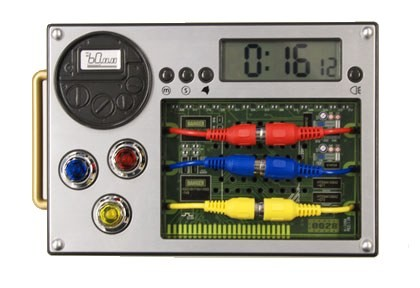
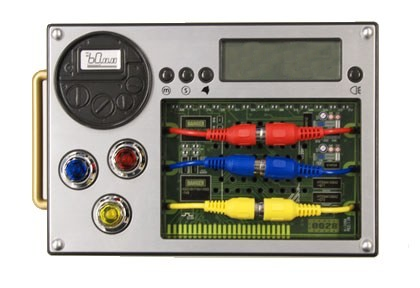
2.10

Changed region(s): [[0.681, 0.1562, 0.8048, 0.2812], [0.5571, 0.125, 0.65, 0.2812]]

diff --git a/goit/files/js_pages/thebomb.html b/goit/files/js_pages/thebomb.html
@@ -1,48 +1,70 @@
 <!DOCTYPE html>
 <html lang="en">
+
 <head>
-	<meta charset="UTF-8">
-	<title>JavaScript</title>
-	<link href="../style/js.css" rel="stylesheet">
-	
+    <meta charset="UTF-8">
+    <title>JavaScript</title>
+    <link href="../style/js.css" rel="stylesheet">
+    <script src="../js/bomb.js"></script>
 </head>
+
 <body>
-<header><nav>
-	<a href="/">Старт</a>
-	<a href="https://color.adobe.com/ru/Escape-Technology-Colours-color-theme-6679213/" target="_blank">Цвет</a>
-	<a href="">menu 3</a>
-	<a href="">menu 4</a>
-	<a href="js_page_2_2.html">МорБой</a>
-	<span>JavaScript</span>
-</nav></header>
-	<div class="main_cont">
-	<!-- Начало бокового меню -->
-		<div class="sidebar">
-			<ul>
-			    <li><a href="../js.html">Начало</a></li>
-				<li><a href="js_page_1_1.html">Глава 1</a></li>
-				<li><a href="js_page_2_1.html">Глава 2</a></li>
-				<li><a href="js_page_3_1.html">Глава 3</a></li>
-				<li><a href="js_page_4_1.html">Глава 4</a></li>
-				<li><a href="js_page_5_1.html">Глава 5</a></li>
-				<li><a href="js_page_6_1.html">Глава 6</a></li>
-				<li><a href="js_page_7_1.html">Глава 7</a></li>
-				<li><a href="js_page_8_1.html">Глава 8</a></li>
-				<li><a href="js_page_9_1.html">Глава 9</a></li>
-				<li><a href="js_page_10_1.html">Глава 10</a></li>
-				<li><a href="js_page_11_1.html">Глава 11</a></li>
-				<li><a href="js_page_12_1.html">Глава 12</a></li>
-				<li><a href="js_page_13_1.html">Глава 13</a></li>
-				<li><a href="js_other.html">Разное</a></li>
-			</ul>
-		</div>
-		<!-- Конец бокового меню -->
-		<!-- Начало блока с контентом -->
-		<div class="content">
-		    <h2>Разминируй бомбу.</h2>
-			<h1 class="red"></h1>
-		</div>
-		<!-- Конец блока с контентом -->
-	</div>
+    <header>
+        <nav>
+            <a href="/">Старт</a>
+            <a href="https://color.adobe.com/ru/Escape-Technology-Colours-color-theme-6679213/" target="_blank">Цвет</a>
+            <a href="">menu 3</a>
+            <a href="">menu 4</a>
+            <a href="js_page_2_2.html">МорБой</a>
+            <span>JavaScript</span>
+        </nav>
+    </header>
+    <div class="main_cont">
+        <!-- Начало бокового меню -->
+        <div class="sidebar">
+            <ul>
+                <li><a href="../js.html">Начало</a></li>
+                <li><a href="js_page_1_1.html">Глава 1</a></li>
+                <li><a href="js_page_2_1.html">Глава 2</a></li>
+                <li><a href="js_page_3_1.html">Глава 3</a></li>
+                <li><a href="js_page_4_1.html">Глава 4</a></li>
+                <li><a href="js_page_5_1.html">Глава 5</a></li>
+                <li><a href="js_page_6_1.html">Глава 6</a></li>
+                <li><a href="js_page_7_1.html">Глава 7</a></li>
+                <li><a href="js_page_8_1.html">Глава 8</a></li>
+                <li><a href="js_page_9_1.html">Глава 9</a></li>
+                <li><a href="js_page_10_1.html">Глава 10</a></li>
+                <li><a href="js_page_11_1.html">Глава 11</a></li>
+                <li><a href="js_page_12_1.html">Глава 12</a></li>
+                <li><a href="js_page_13_1.html">Глава 13</a></li>
+                <li><a href="js_other.html">Разное</a></li>
+            </ul>
+        </div>
+        <!-- Конец бокового меню -->
+        <!-- Начало блока с контентом -->
+        <div class="content">
+            <h2 class="red">Разминируй бомбу.</h2>
+            <div id="bombContainer">
+                
+                        <div id="clock"><table>
+                        	<tr>
+                        		<td id="table1">00</td>
+                        		<td id="table2" class="zasechka">:</td>
+                        		<td id="table3">22</td>
+                        	</tr>
+                        </table></div>
+                    
+                        <div id="redwire" onclick="controller.checkWire()">red</div>
+                    
+                        <div id="bluewire" onclick="controller.checkWire()">blue</div>
+                    
+                        <div id="yellowwire" onclick="controller.checkWire()">yellow</div>
+                        <div id="trarata"></div>
+                    
+            </div>
+        </div>
+        <!-- Конец блока с контентом -->
+    </div>
 </body>
+
 </html>

diff --git a/goit/files/js/timer.js b/goit/files/js/timer.js
@@ -1,29 +1,28 @@
-window.onload = init;
+window.onload = function() {
+    
+    var id = setInterval(myFunctionName, 1000);
+    var counter = 0;
+    var counterheadling = document.getElementById("counterheadling");
+    var skolkovremyaH1 = document.getElementById("skolkovremyaH1");
+    var ticktock = document.getElementById("ticktock");
+    var tick = true;
 
-    function init() {
-        var id = setInterval(myFunctionName, 1000);
-        var counter = 0;
-        var counterheadling = document.getElementById("counterheadling");
-        var skolkovremyaH1 = document.getElementById("skolkovremyaH1");
-        var ticktock = document.getElementById("ticktock");
-        var tick = true;
-
-        function myFunctionName() {
-            counter++;
-            counterheadling.innerHTML = counter;
-            if (tick) {
-                ticktock.innerHTML = "ТИК";
-                ticktock.setAttribute("class", "red");
-                tick = false;
-            } else {
-                ticktock.innerHTML = "ТАК";
-                ticktock.setAttribute("class", "blue");
-                tick = true;
-            }
-            if (counter == 60) {
-                skolkovremyaH1.innerHTML = "Минута истекла";
-                ticktock.innerHTML = "";
-                clearInterval(id);
-            }
+    function myFunctionName() {
+        counter++;
+        counterheadling.innerHTML = counter;
+        if (tick) {
+            ticktock.innerHTML = "ТИК";
+            ticktock.setAttribute("class", "red");
+            tick = false;
+        } else {
+            ticktock.innerHTML = "ТАК";
+            ticktock.setAttribute("class", "blue");
+            tick = true;
+        }
+        if (counter == 60) {
+            skolkovremyaH1.innerHTML = "Минута истекла";
+            ticktock.innerHTML = "";
+            clearInterval(id);
         }
     }
+}

diff --git a/goit/files/js/bomb.js b/goit/files/js/bomb.js
@@ -1,0 +1,63 @@
+window.onload = init;
+
+function init() {
+	var timer = setInterval(model.startCounter, 1000);
+	//model.startCounter();
+};
+
+var controller = {
+
+    checkWire: function() {
+		console.log("Проверка провода");
+	}
+
+};
+
+var model = {
+//Провода
+	wires: ["red", "yellow", "blue"],
+//Количество проводов	
+	numWires: 3,
+//Состояние
+    defused: false,
+//Счетчик    
+    counter: 30,
+ 
+    tick: true,
+//Запуск счетчика       
+    startCounter: function() {
+    	this.counter--;
+    	console.log(this.counter);
+    	var zasechka = document.getElementById("table2");
+//Инструкция для передачи представлению инфы 
+//о состоянии засечки между числами на таймере.
+    	if (this.tick) {
+            this.tick = false;
+        } else {
+            this.tick = true;
+        }
+        view.displayClock(this.counter, this.tick);
+    },
+//    
+    generatePositions: function (argument) {
+    	var newWiresPos = [];
+
+    	for (var i = 0; i < this.numWires; i++) {
+    		
+    	}
+    }
+};
+
+var view = {
+//отображение таймера	
+	displayClock: function(sec, ticktak) {
+		var ticktock = document.getElementById("table3");
+		var zasechka = document.getElementById("table2");
+		if (ticktak) {
+			zasechka.setAttribute("class", "zasechka");
+		} else {
+			zasechka.setAttribute("class", "nozasechka");
+		}
+        ticktock.innerHTML = sec;
+    }
+};

diff --git a/goit/files/style/js.css b/goit/files/style/js.css
@@ -256,3 +256,61 @@ h4 {
 	box-shadow: 0 8px 16px 0 rgba(0,0,0,0.24), 0 12px 25px 0 rgba(0,0,0,0.19);
 	transition-duration: 0.2s;
 }
+
+/* Стили для игры про бомбу. */
+
+#bombContainer {
+    background-image: url("../img/time_bomb.png");
+    background-repeat: no-repeat;
+    background-position: center center;
+    background-size: 500px;
+    height: 400px;
+}
+
+
+#bombContainer #clock, #redwire, #bluewire, #yellowwire {
+    position: absolute;
+}
+
+#clock {
+    background: rgba(53, 200, 60, 0.3);
+    top: 141px;
+    left: 450px;
+    width: 136px;
+    height: 42px;
+}
+.zasechka {
+    visibility: visible;
+}
+.nozasechka {
+    visibility: hidden;
+}
+#redwire {
+    
+    top: 234px;
+    left: 380px;
+    width: 225px;
+    height: 30px;
+}
+#bluewire {
+    
+    top: 271px;
+    left: 380px;
+    width: 225px;
+    height: 32px;
+}
+#yellowwire {
+    
+    top: 320px;
+    left: 380px;
+    width: 225px;
+    height: 35px;
+}
+#clock table {
+    margin-left: 25px;
+}
+#clock td {
+    height: 34px;
+    font-size: 33px;
+    color: #423E3B;
+}
